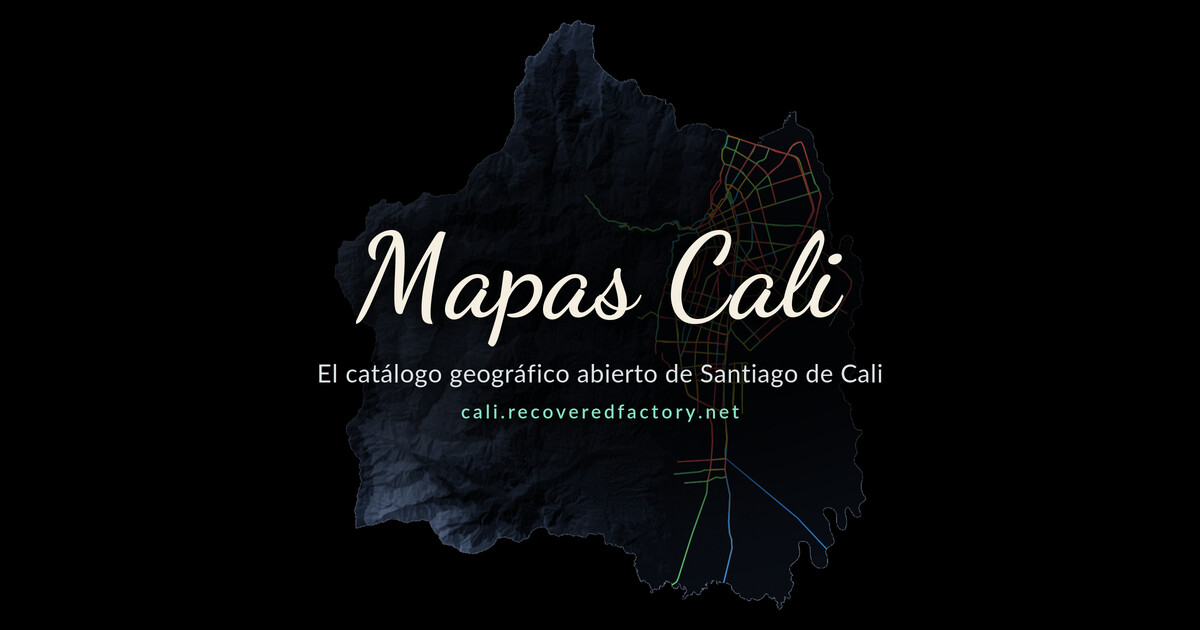
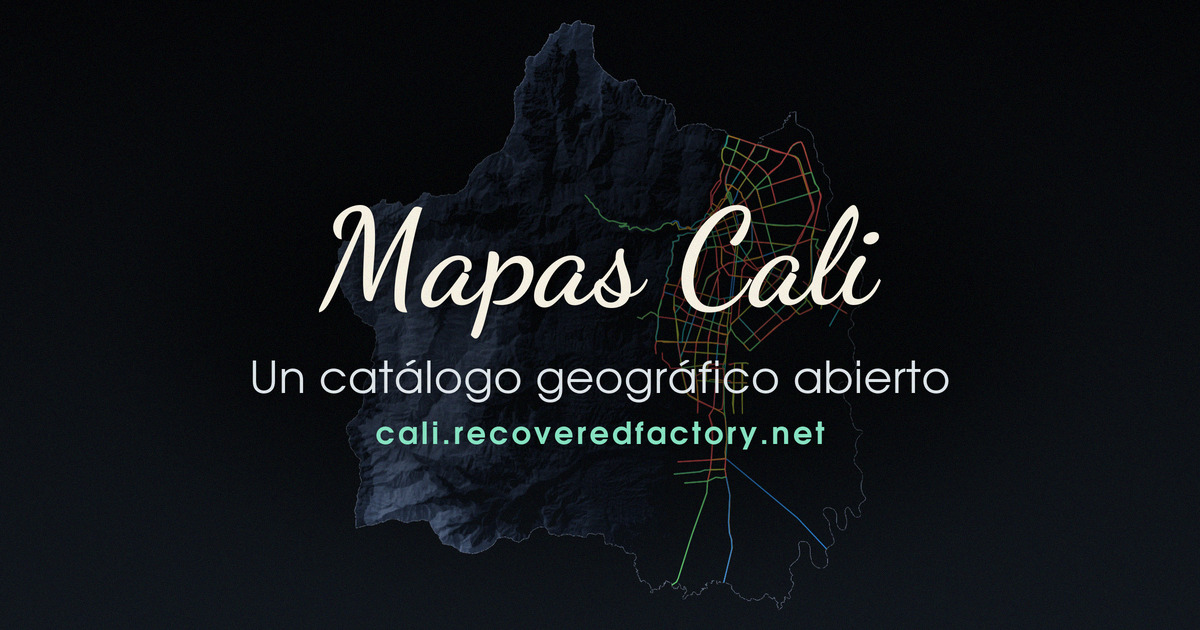
viewer: finalize OG card — subtle gradient, bigger type, URW Gothic
Drop the texture experiments for a quiet treatment: a very subtle reversed
vertical gradient (near-black top, faint cool lift at the bottom) behind the
centered map, with a touch of noise at final size to dither away banding.
Bump the type (wordmark +15%, description/URL ~+60%), shorten the line to
"Un catálogo geográfico abierto", and set the sans in URW Gothic. Meta
description updated to match ("Un catálogo…").

Changed region(s): [[0.0, 0.6937, 1.0, 1.0], [0.185, 0.2714, 0.8017, 0.754], [0.4933, 0.3317, 0.5242, 0.3619]]

diff --git a/viewer/src/app.html b/viewer/src/app.html
@@ -18,7 +18,7 @@
 		<title>Mapas Cali — lo demás es mapa</title>
 		<meta
 			name="description"
-			content="El catálogo geográfico abierto de Santiago de Cali: más de 350 capas municipales para explorar, colorear y ver en relieve 3D."
+			content="Un catálogo geográfico abierto de Santiago de Cali: más de 350 capas municipales para explorar, colorear y ver en relieve 3D."
 		/>
 		<link rel="canonical" href="https://cali.recoveredfactory.net/" />
 
@@ -27,7 +27,7 @@
 		<meta property="og:title" content="Mapas Cali — lo demás es mapa" />
 		<meta
 			property="og:description"
-			content="El catálogo geográfico abierto de Santiago de Cali: más de 350 capas municipales para explorar, colorear y ver en relieve 3D."
+			content="Un catálogo geográfico abierto de Santiago de Cali: más de 350 capas municipales para explorar, colorear y ver en relieve 3D."
 		/>
 		<meta property="og:url" content="https://cali.recoveredfactory.net/" />
 		<meta property="og:image" content="https://cali.recoveredfactory.net/og.jpg" />
@@ -44,7 +44,7 @@
 		<meta name="twitter:title" content="Mapas Cali — lo demás es mapa" />
 		<meta
 			name="twitter:description"
-			content="El catálogo geográfico abierto de Santiago de Cali: más de 350 capas municipales para explorar, colorear y ver en relieve 3D."
+			content="Un catálogo geográfico abierto de Santiago de Cali: más de 350 capas municipales para explorar, colorear y ver en relieve 3D."
 		/>
 		<meta name="twitter:image" content="https://cali.recoveredfactory.net/og.jpg" />
 
